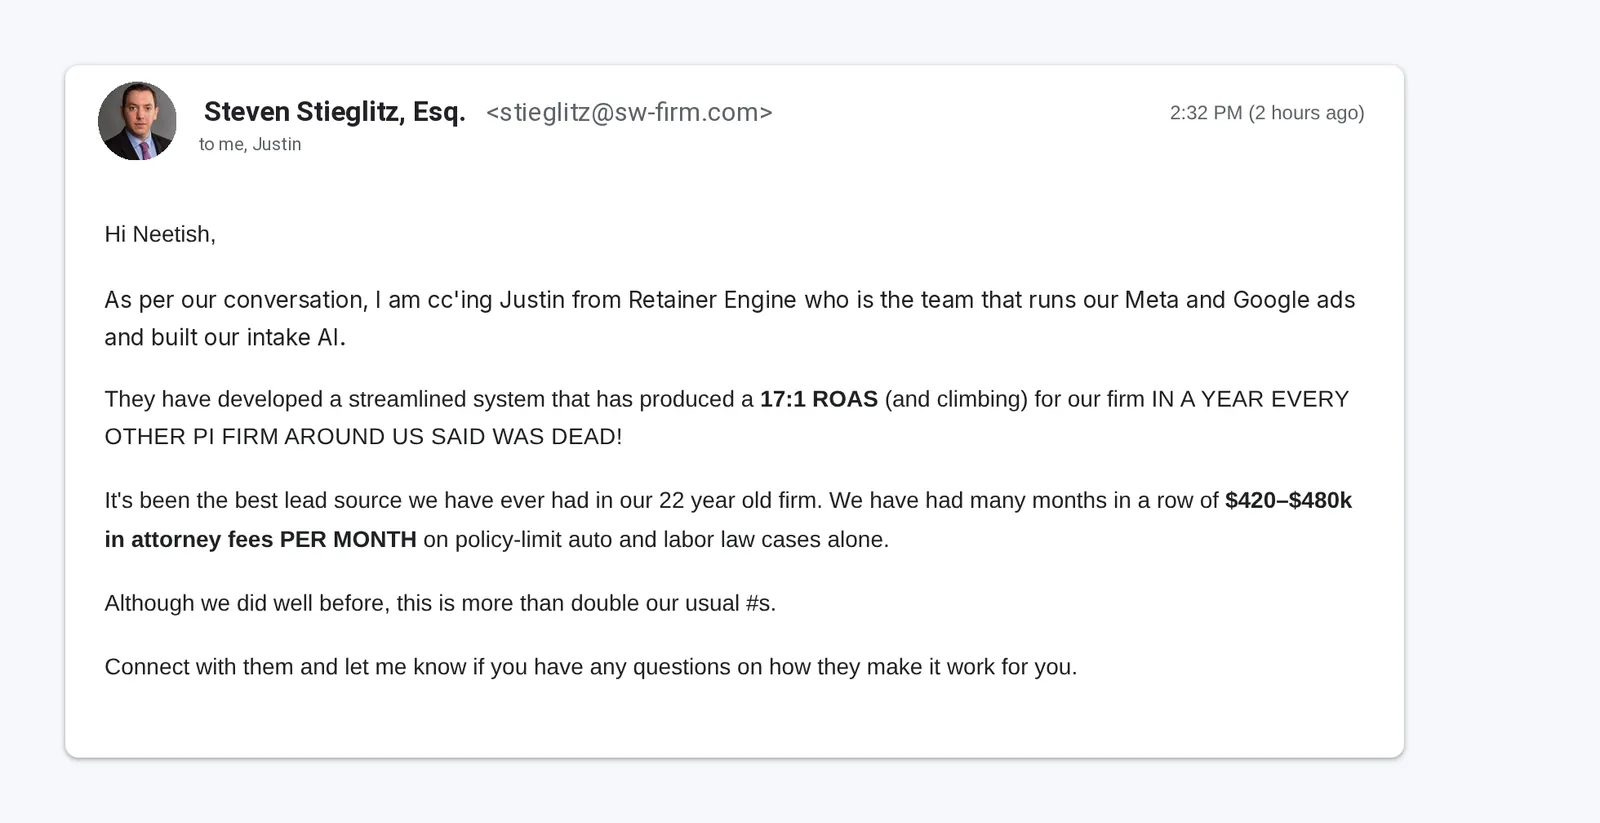
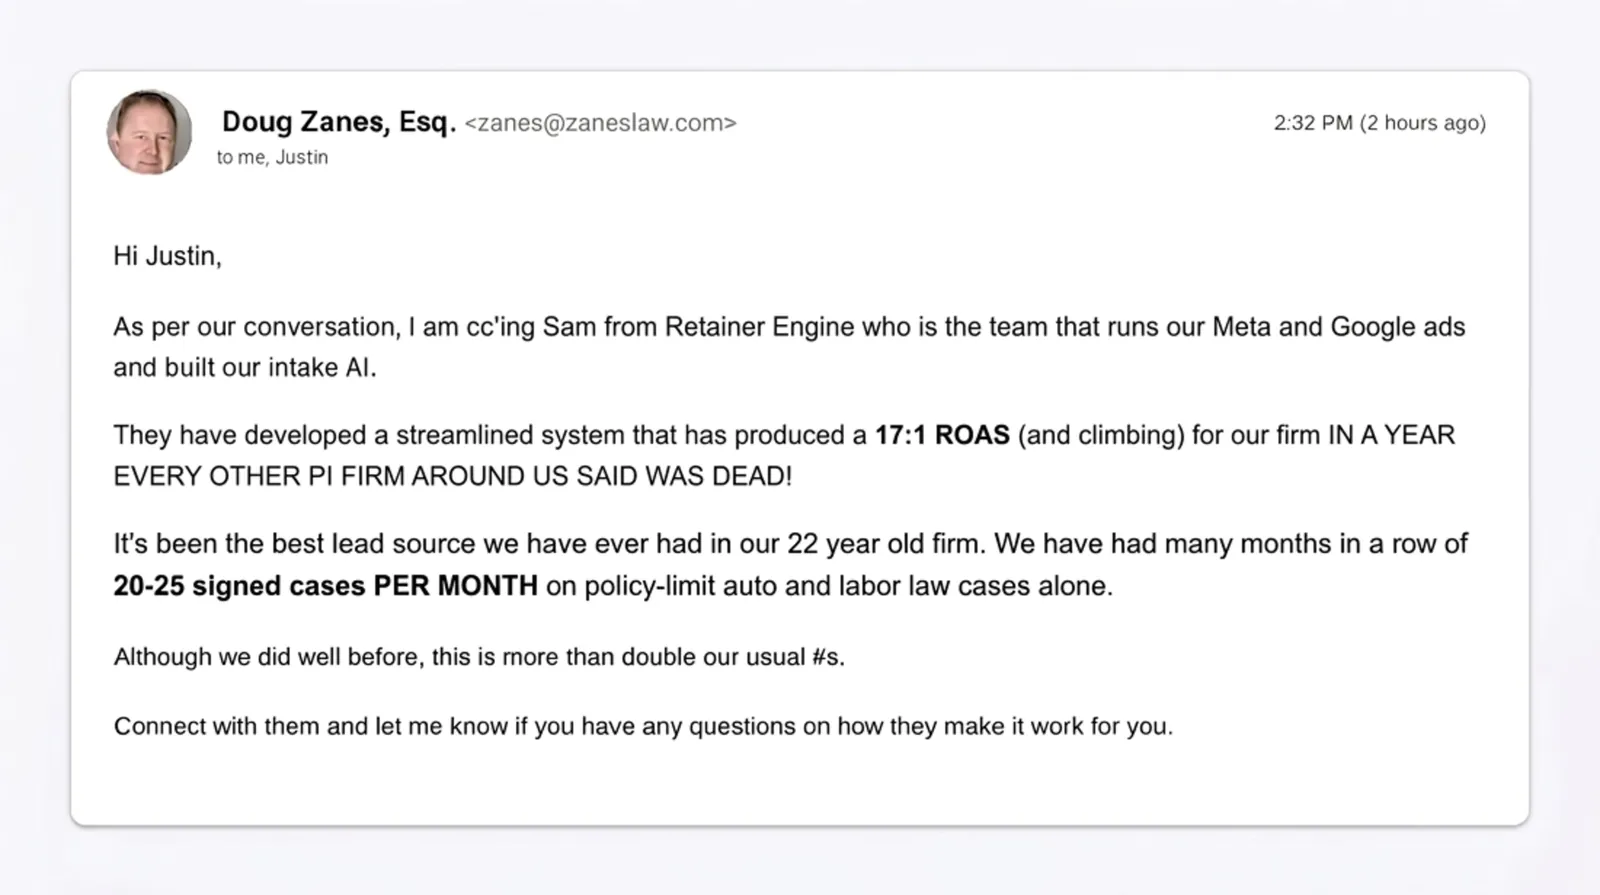
Swap 17:1 ROAS email to Doug Zanes; keep Jim on the $1.8M testimonial
New export reassigned the testimonial slots:
- 17:1 ROAS email screenshot: Steven -> Doug Zanes (rebuilt image
  1.0MB -> 141KB + webp, alt text synced, bumped ?v=44)
- $1.8M text testimonial: now Jim Cammarasana (Steven moved out)
Updated optimize.mjs to pin re-testimonial-1 at ?v=44 (Doug) so future
exports keep Doug and bust the cached Steven copy.

diff --git a/case-studies/index.html b/case-studies/index.html
@@ -278,7 +278,7 @@ p{text-wrap:pretty}
     <div class="success-grid">
       <div class="success-col">
         <figure class="success-card ">
-          <img src="../assets/re-testimonial-1-17x-roas.png?v=43" alt="Referral email from Doug Zanes, Esq.: 17:1 ROAS and climbing, best lead source in the firm’s 22-year history, 20-25 signed cases per month on policy-limit auto and labor law" loading="lazy">
+          <img src="../assets/re-testimonial-1-17x-roas.png?v=44" alt="Referral email from Doug Zanes, Esq.: 17:1 ROAS and climbing, best lead source in the firm’s 22-year history, 20-25 signed cases per month on policy-limit auto and labor law" loading="lazy">
           <figcaption>
             <span class="success-tag">17:1 ROAS</span>
             <span class="success-cap">22-year trial firm &middot; 20&ndash;25 signed cases/mo on policy-limit auto &amp; labor law</span>

diff --git a/index.html b/index.html
@@ -1786,7 +1786,7 @@
       <div class="success-grid">
         <div class="success-col">
         <figure class="success-card email">
-          <img src="assets/re-testimonial-1-17x-roas.png?v=43" alt="Referral email from Doug Zanes, Esq.: 17:1 ROAS and climbing, best lead source in the firm’s 22-year history, 20-25 signed cases per month on policy-limit auto and labor law" loading="lazy">
+          <img src="assets/re-testimonial-1-17x-roas.png?v=44" alt="Referral email from Doug Zanes, Esq.: 17:1 ROAS and climbing, best lead source in the firm’s 22-year history, 20-25 signed cases per month on policy-limit auto and labor law" loading="lazy">
           <figcaption>
             <span class="success-tag">17:1 ROAS</span>
             <span class="success-cap">22-year trial firm &middot; 20&ndash;25 signed cases/mo on policy-limit auto &amp; labor law</span>

diff --git a/retainer-engine-demo-booked.html b/retainer-engine-demo-booked.html
@@ -1829,7 +1829,7 @@
       <div class="success-grid">
         <div class="success-col">
         <figure class="success-card email">
-          <img src="assets/re-testimonial-1-17x-roas.png?v=43" alt="Referral email from Doug Zanes, Esq.: 17:1 ROAS and climbing, best lead source in the firm’s 22-year history, 20-25 signed cases per month on policy-limit auto and labor law" loading="lazy">
+          <img src="assets/re-testimonial-1-17x-roas.png?v=44" alt="Referral email from Doug Zanes, Esq.: 17:1 ROAS and climbing, best lead source in the firm’s 22-year history, 20-25 signed cases per month on policy-limit auto and labor law" loading="lazy">
           <figcaption>
             <span class="success-tag">17:1 ROAS</span>
             <span class="success-cap">22-year trial firm &middot; 20&ndash;25 signed cases/mo on policy-limit auto &amp; labor law</span>
